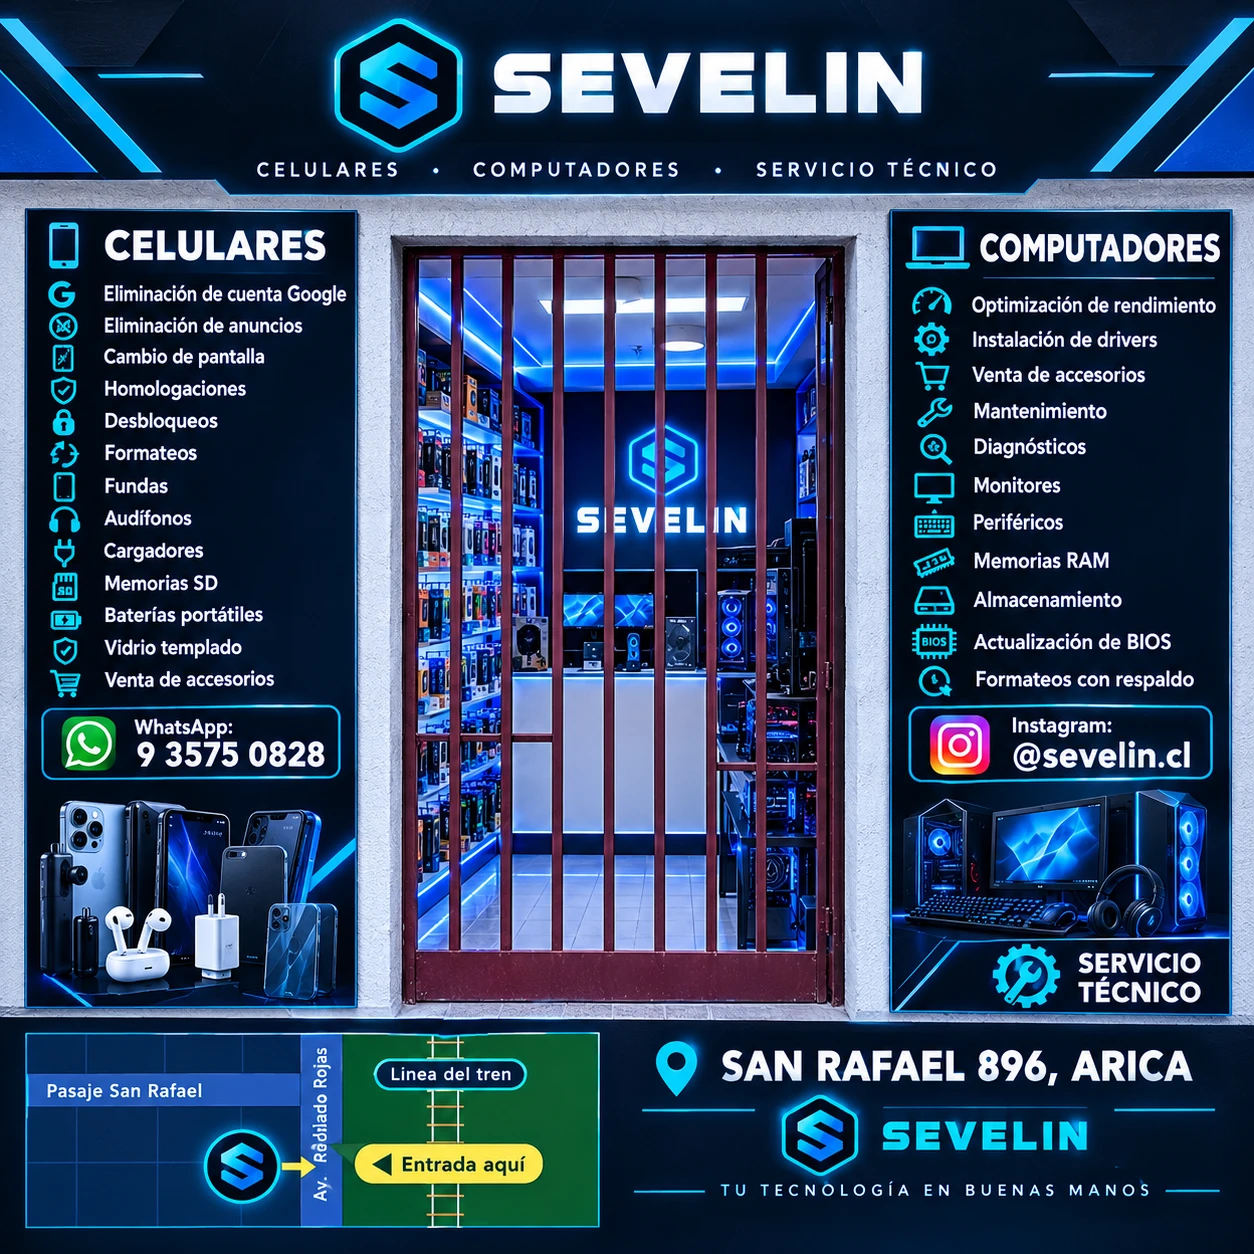
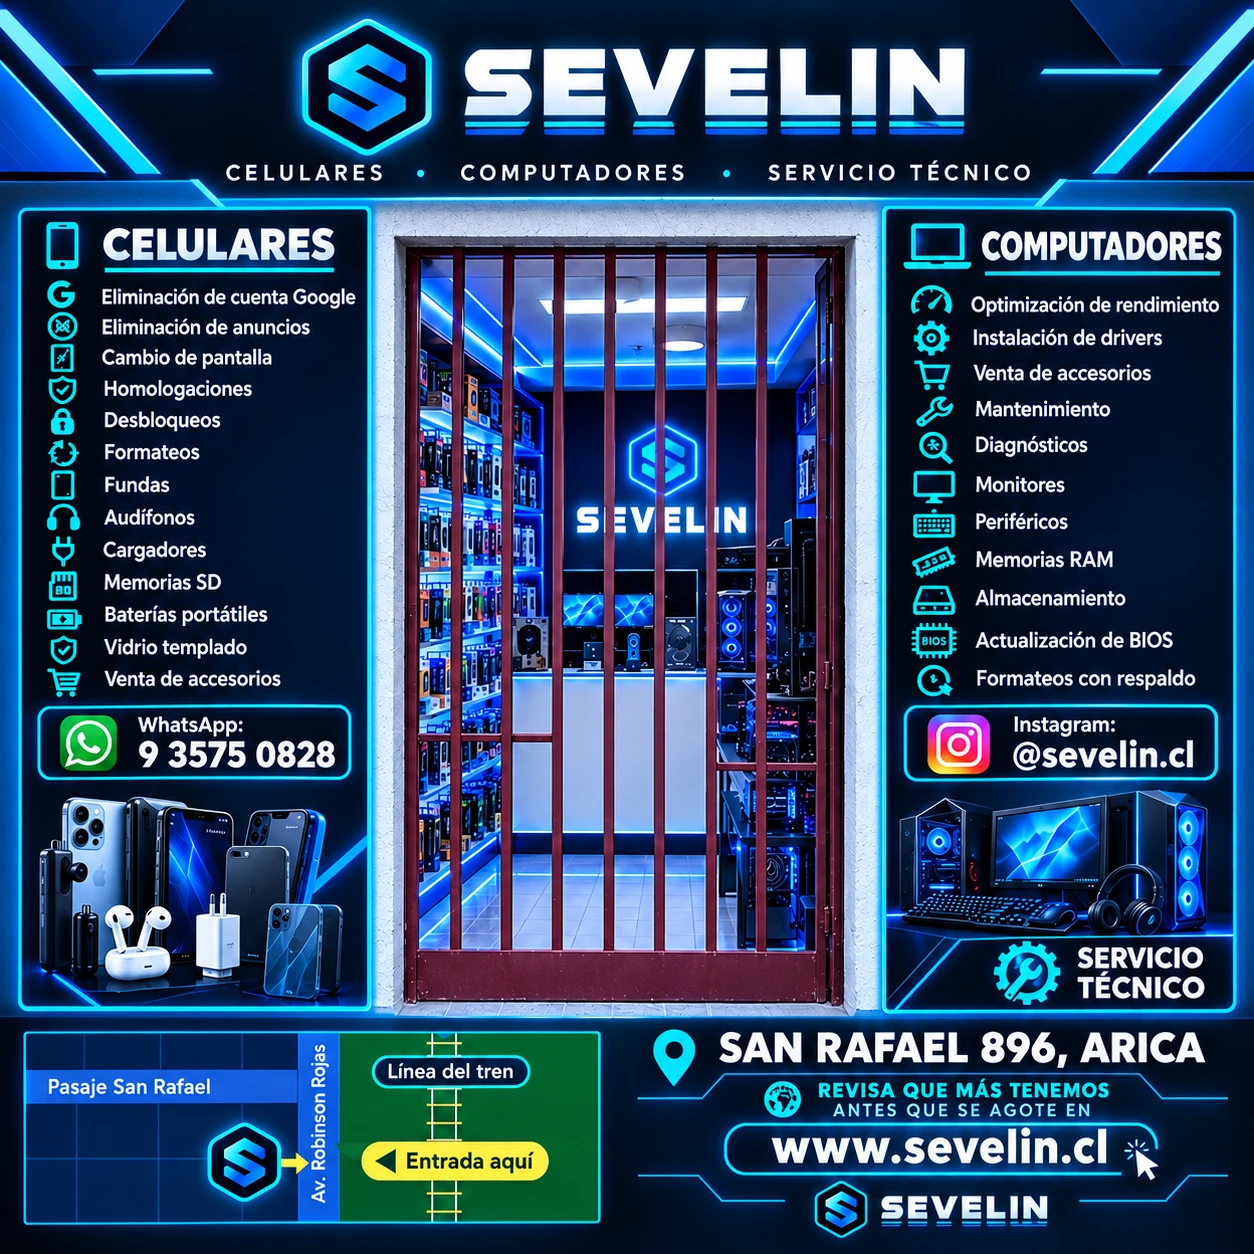
feat(fotos): foto «¿Dónde estamos?» nueva y botones Ver / Cambiar para que el dueño la reemplace desde el POS (v155, sql/100)

diff --git a/js/productos.js b/js/productos.js
@@ -374,6 +374,8 @@ function setupProductosEventListeners() {
       showToast(chkUbicacion.checked ? '"Descargar todas" agrega la foto ¿Dónde estamos?' : '"Descargar todas" ya no agrega la foto de ubicación', 'ok');
     });
   }
+  document.getElementById('btnVerFotoUbicacion')?.addEventListener('click', verFotoUbicacion);
+  document.getElementById('btnCambiarFotoUbicacion')?.addEventListener('click', elegirFotoDondeEstamos);
   document.getElementById('btnDescargarInstagram')?.addEventListener('click', descargarFotosInstagram);
   if (elBtnGenerarSeoIA) elBtnGenerarSeoIA.addEventListener('click', generarSeoConIA);
   if (elBtnGenerarFichaIA) elBtnGenerarFichaIA.addEventListener('click', () => generarTextoConIA('ficha'));
@@ -3047,13 +3049,80 @@ async function entregarVariasFotos(carpeta, subcarpeta, archivos, nombreZip) {
    Con el interruptor encendido, "Descargar todas" agrega esa imagen como
    última foto, para copiar la carpeta completa a Facebook Marketplace.
    El interruptor vale para todos los productos y se recuerda en este
-   navegador. La imagen es img/donde-estamos.webp: se cambia reemplazando
-   ese archivo. */
+   navegador. Desde v155 (sql/100) el dueño la cambia con "🔄 Cambiar": queda
+   en el almacenamiento y vale para todos los equipos. Si nunca se cambió,
+   se usa img/donde-estamos.webp. */
 const CLAVE_FOTO_UBICACION = 'pos_foto_ubicacion';
 let motivoSinCarpetaFotos = '';
 function fotoUbicacionEncendida() { return localStorage.getItem(CLAVE_FOTO_UBICACION) !== '0'; }
+async function urlFotoUbicacion() {
+  try {
+    const r = await API.fotoUbicacion.obtener();
+    if (r?.url) return r.url;
+  } catch (_) { /* sin conexión a la API: la foto de siempre */ }
+  return 'img/donde-estamos.webp';
+}
+
+async function verFotoUbicacion() {
+  abrirVisorImagen([await urlFotoUbicacion()], 0, 'Foto «¿Dónde estamos?»');
+}
+
+/* La foto se guarda tal cual se ve (no se cuadra ni se le pone fondo, como
+   las del catálogo): solo se pasa a webp y se achica si pasa de 1600 px o de
+   ~900 KB, que es lo que acepta el servidor. */
+function elegirFotoDondeEstamos() {
+  if (!esAdmin()) { showToast('Solo el administrador puede cambiar esta foto', 'err'); return; }
+  const input = document.createElement('input');
+  input.type = 'file';
+  input.accept = 'image/*';
+  input.addEventListener('change', async () => {
+    const archivo = input.files?.[0];
+    if (!archivo) return;
+    const boton = document.getElementById('btnCambiarFotoUbicacion');
+    if (boton) boton.disabled = true;
+    try {
+      const base64 = await fotoUbicacionAWebp(archivo);
+      await API.fotoUbicacion.cambiar(base64);
+      showToast('Foto «¿Dónde estamos?» cambiada. Ya sale en las próximas descargas.', 'ok');
+      verFotoUbicacion();
+    } catch (err) {
+      showToast(err.message || 'No se pudo cambiar la foto', 'err');
+    } finally {
+      if (boton) boton.disabled = false;
+    }
+  });
+  input.click();
+}
+
+function fotoUbicacionAWebp(archivo) {
+  return new Promise((ok, mal) => {
+    const url = URL.createObjectURL(archivo);
+    const img = new Image();
+    img.onload = () => {
+      URL.revokeObjectURL(url);
+      let lado = Math.min(FOTO_LADO_MAX_PX, Math.max(img.width, img.height));
+      const intentar = (calidad) => {
+        const escala = lado / Math.max(img.width, img.height);
+        const lienzo = document.createElement('canvas');
+        lienzo.width = Math.round(img.width * escala);
+        lienzo.height = Math.round(img.height * escala);
+        lienzo.getContext('2d').drawImage(img, 0, 0, lienzo.width, lienzo.height);
+        const dataUrl = lienzo.toDataURL('image/webp', calidad);
+        const bytes = Math.round((dataUrl.length - dataUrl.indexOf(',') - 1) * 3 / 4);
+        if (bytes <= FOTO_MAXIMO_BYTES) return ok(dataUrl);
+        if (calidad > FOTO_CALIDAD_MINIMA) return intentar(Math.round((calidad - 0.1) * 100) / 100);
+        if (lado > FOTO_LADO_MIN_PX) { lado = FOTO_LADO_MIN_PX; return intentar(FOTO_CALIDAD_INICIAL); }
+        mal(new Error('La imagen es demasiado pesada incluso achicada. Prueba con otra.'));
+      };
+      intentar(0.9);
+    };
+    img.onerror = () => { URL.revokeObjectURL(url); mal(new Error('No se pudo leer esa imagen')); };
+    img.src = url;
+  });
+}
+
 async function traerFotoUbicacion() {
-  const resp = await fetch('img/donde-estamos.webp');
+  const resp = await fetch(await urlFotoUbicacion());
   if (!resp.ok) throw new Error('No se pudo cargar la foto de ubicación');
   return resp.blob();
 }

diff --git a/api/index.js b/api/index.js
@@ -5893,6 +5893,60 @@ app.delete('/api/productos/:id/imagenes', auth(true), async (req, res) => {
    producto ni lugar de la Bodega. El GET solo cuenta; borrar pide la clave del
    dueño y vuelve a calcular la lista en ese momento (nunca borra una lista
    vieja que mandó el navegador). */
+/* FOTO "¿DÓNDE ESTAMOS?" (v155, sql/100 · dueño 16-10-2026)
+   "Dame una opción en el POS para yo mismo reemplazar la imagen de Facebook".
+   Va al bucket en sitio/ y su URL en textos_editables('foto_ubicacion'). Sin
+   fila, el POS usa img/donde-estamos.webp. Al cambiarla se borra la anterior. */
+const CLAVE_FOTO_UBICACION = 'foto_ubicacion';
+
+app.get('/api/foto-ubicacion', auth(), async (req, res) => {
+  const { data, error } = await db.from('textos_editables')
+    .select('contenido, actualizado_en').eq('clave', CLAVE_FOTO_UBICACION).maybeSingle();
+  if (error) return enviarErrorBD(res, error, 'GET /api/foto-ubicacion');
+  res.json({ url: data?.contenido?.url || null, actualizado_en: data?.actualizado_en || null });
+});
+
+app.post('/api/foto-ubicacion', auth(true), async (req, res) => {
+  try {
+    const base64 = String(req.body?.imagen_base64 || '');
+    if (!base64) return enviarError(res, 400, 'Falta la imagen');
+    const buffer = Buffer.from(base64.includes(',') ? base64.split(',')[1] : base64, 'base64');
+    if (!buffer.length) return enviarError(res, 400, 'La imagen viene vacía');
+    if (buffer.length > MAX_BYTES_IMAGEN_PRODUCTO) return enviarError(res, 413, 'La imagen supera 1 MB.');
+
+    const { data: anterior } = await db.from('textos_editables')
+      .select('contenido').eq('clave', CLAVE_FOTO_UBICACION).maybeSingle();
+
+    const ruta = `sitio/donde-estamos-${crypto.randomUUID()}.webp`;
+    const { error: errSubida } = await db.storage.from(BUCKET_IMAGENES_PRODUCTO)
+      .upload(ruta, buffer, { contentType: 'image/webp', upsert: false });
+    if (errSubida) throw new Error(errSubida.message);
+    const { data: pub } = db.storage.from(BUCKET_IMAGENES_PRODUCTO).getPublicUrl(ruta);
+
+    const { data, error } = await db.from('textos_editables')
+      .upsert({ clave: CLAVE_FOTO_UBICACION, contenido: { url: pub.publicUrl }, actualizado_en: new Date().toISOString() }, { onConflict: 'clave' })
+      .select('contenido, actualizado_en').single();
+    if (error) {
+      await db.storage.from(BUCKET_IMAGENES_PRODUCTO).remove([ruta]);
+      return enviarErrorBD(res, error, 'POST /api/foto-ubicacion');
+    }
+
+    // La anterior ya no la usa nadie: fuera del bucket (si no se puede, la limpia "🧹 Fotos sin usar")
+    const marca = `/${BUCKET_IMAGENES_PRODUCTO}/`;
+    const urlVieja = String(anterior?.contenido?.url || '');
+    if (urlVieja.includes(marca)) {
+      const rutaVieja = urlVieja.split(marca)[1];
+      if (rutaVieja && rutaVieja !== ruta) {
+        const { error: errBorrar } = await db.storage.from(BUCKET_IMAGENES_PRODUCTO).remove([rutaVieja]);
+        if (errBorrar) console.error('[FOTO-UBICACION] no se borró la anterior:', errBorrar.message);
+      }
+    }
+    res.status(201).json({ url: data.contenido.url, actualizado_en: data.actualizado_en });
+  } catch (err) {
+    enviarError(res, 500, err.message || 'No se pudo cambiar la foto');
+  }
+});
+
 app.get('/api/productos/fotos-sueltas', auth(true), async (req, res) => {
   const { data, error } = await db.rpc('fotos_sueltas_productos');
   if (error) return enviarErrorBD(res, error, 'GET /api/productos/fotos-sueltas');

diff --git a/index.html b/index.html
@@ -3187,6 +3187,9 @@
                 <label class="foto-ubicacion-interruptor" title="Encendido: 'Descargar todas' agrega al final la imagen ¿Dónde estamos? con la dirección, lista para Facebook Marketplace. Vale para todos los productos.">
                   <input type="checkbox" id="chkFotoUbicacion"> 📍 Agregar foto «¿Dónde estamos?»
                 </label>
+                <!-- v155: ver y reemplazar esa foto (vale para todos los productos y todos los equipos) -->
+                <button type="button" class="btn btn-ghost btn-sm" id="btnVerFotoUbicacion" title="Ver la foto «¿Dónde estamos?» que se agrega al descargar">👁 Ver</button>
+                <button type="button" class="btn btn-ghost btn-sm" id="btnCambiarFotoUbicacion" title="Reemplazar la foto «¿Dónde estamos?» por otra (solo admin)">🔄 Cambiar</button>
                 <button type="button" class="btn btn-outline btn-sm" id="btnDescargarTodasFotos" style="display:none;" title="Deja todas las fotos sueltas en tu carpeta de fotos (la eliges una vez). Con Mayús apretada eliges otra carpeta. En el celular bajan en un .zip.">⬇ Descargar todas</button>
                 <!-- Instagram no acepta webp, y una foto 1:1 en un feed 4:5
                      sale recortada. Este botón resuelve las dos cosas al

diff --git a/js/api.js b/js/api.js
@@ -70,6 +70,12 @@ const API = {
   login: (pin) => apiRequest('/login', { method: 'POST', body: { pin }, silencioso: true }),
   me: () => apiRequest('/me', { silencioso: true }),
 
+  // Foto "¿Dónde estamos?" que el dueño cambia desde la ficha (sql/100, v155)
+  fotoUbicacion: {
+    obtener: () => apiRequest('/foto-ubicacion', { silencioso: true }),
+    cambiar: (imagenBase64) => apiRequest('/foto-ubicacion', { method: 'POST', body: { imagen_base64: imagenBase64 } }),
+  },
+
   productos: {
     listar: () => apiRequest('/productos'),
     // Archivados: mismo endpoint, ?archivados=1 invierte el filtro

diff --git a/docs/CHANGELOG-V155.md b/docs/CHANGELOG-V155.md
@@ -1,0 +1,37 @@
+# v155 · El dueño cambia la foto «¿Dónde estamos?» desde el POS (16-10-2026)
+
+Migración `sql/100-foto-ubicacion.sql` (aplicada con la CLI el 16-10-2026). Cambia `api/index.js`, `js/api.js`,
+`js/productos.js`, `index.html` e `img/donde-estamos.webp`.
+
+## Qué pidió el dueño
+"Esta será la nueva foto universal para Facebook, reemplázala por la que ya estaba." Y enseguida: "Dame una opción en
+el POS para yo mismo reemplazar manualmente la imagen de Facebook."
+
+## Qué quedó
+- **`img/donde-estamos.webp` reemplazada** por la imagen nueva (1254×1254, letrero con celulares, computadores,
+  WhatsApp, Instagram, mapa y San Rafael 896). Es la que se usa mientras no se cambie desde el POS.
+- **Ficha de producto → Fotos**, junto al interruptor «📍 Agregar foto ¿Dónde estamos?»:
+  - **👁 Ver:** abre en grande la foto que se está agregando hoy.
+  - **🔄 Cambiar** (solo admin): se elige una imagen del computador. Se pasa a webp, se achica si pasa de 1600 px o
+    de ~900 KB y **no se cuadra ni se le pone fondo** (sale tal cual). Vale para todos los productos y todos los
+    equipos desde la próxima descarga. Un trabajador ve el aviso "Solo el administrador puede cambiar esta foto".
+- La usan "⬇ Descargar todas" y el armado rápido de Facebook (`js/facebook-rapido.js`), los dos con
+  `traerFotoUbicacion()`.
+
+## Cómo se guarda
+- `POST /api/foto-ubicacion` (admin): sube a `productos-imagenes/sitio/donde-estamos-<uuid>.webp`, guarda la URL en
+  `textos_editables` (clave `foto_ubicacion`, `{ url }`) y borra la anterior del bucket. `GET /api/foto-ubicacion`
+  (cualquier usuario) devuelve `{ url }` o `null`. Si es `null`, el POS usa `img/donde-estamos.webp`.
+- La clave no está en `TEXTOS_EDITABLES`: `PUT /api/textos/foto_ubicacion` responde 404, así nadie la apunta a otra URL.
+- **sql/100:** `fotos_sueltas_productos()` cuenta esa foto como usada. Sin esto, "🧹 Fotos sin usar" (v153) la habría
+  borrado.
+
+## Probado
+- **Servidor real con el doble de Supabase:** 12 de 12. Sin foto → `null`. El trabajador → 403. El admin sube → 201 y
+  el archivo queda en `sitio/`. GET devuelve la nueva. La segunda reemplaza y borra la primera del bucket. Una sola
+  fila. Más de 1 MB → 413, sin imagen → 400, y por `/api/textos` → 404.
+- **Maqueta del POS:** los dos botones se ven, "Ver" abre la imagen nueva (1254 px) y la conversión a webp de la
+  imagen deja 309 KB.
+- **No probado en vivo:** subir una foto real al bucket de producción. Se prueba con el primer "🔄 Cambiar".
+- Hechos `node --check` y los dos chequeos de colisión. Ojo: `elegirFotoUbicacion` ya existía en `js/ubicaciones.js`,
+  por eso la nueva se llama `elegirFotoDondeEstamos`.
